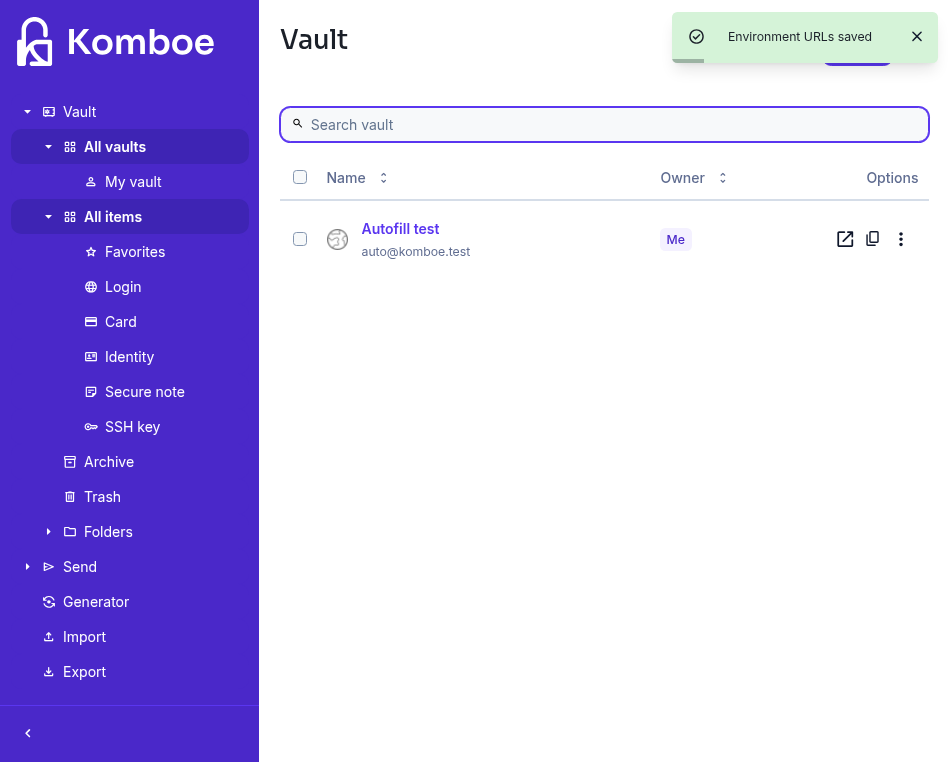
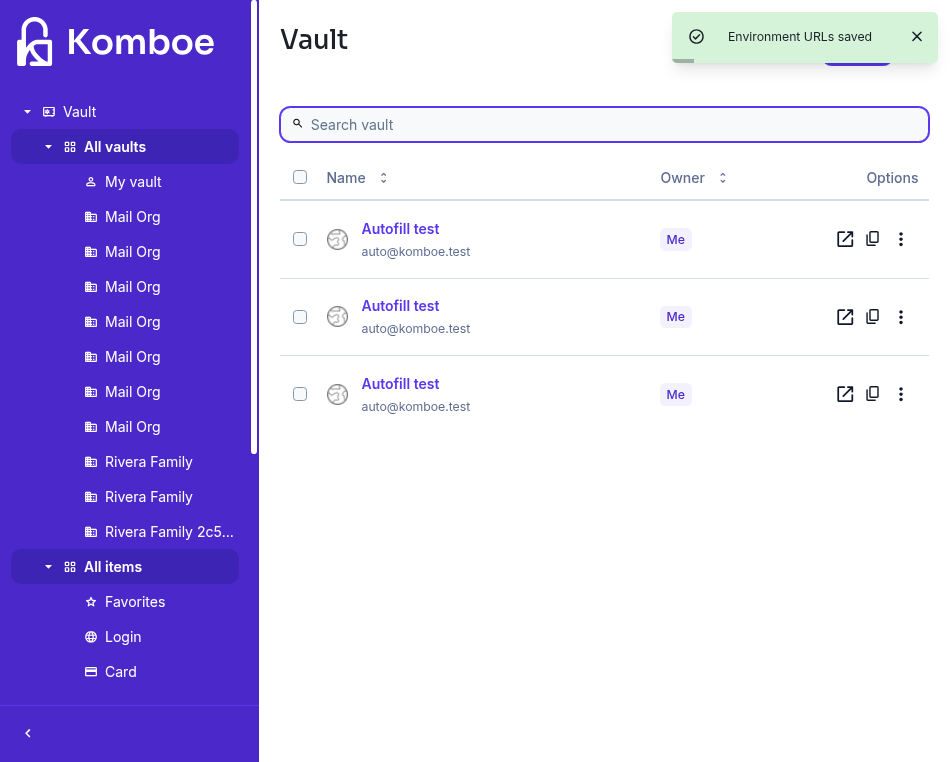
Serve web vault (#80), admin sign-in across web/extension/desktop, emergency + incomplete-2FA job emails, email link browser check

diff --git a/tests/features/emails.py b/tests/features/emails.py
@@ -18,8 +18,8 @@ assert "127.0.0.1" in URL or "localhost" in URL, "emails.py is local/test only"
 BAD = re.compile(r"bitwarden|vaultwarden", re.I)
 RES = []
 
-def check(kind, to, subj, extra=None):
-    m = mailpit(to, subj)
+def check(kind, to, subj, extra=None, wait=None):
+    m = mailpit(to, subj, wait) if wait else mailpit(to, subj)
     body = (m.get("HTML") or "") + "\n" + (m.get("Text") or "")
     probs = []
     if (m["From"].get("Name") or "") != "Komboe": probs.append(f"From name {m['From'].get('Name')!r}")
@@ -29,7 +29,7 @@ def check(kind, to, subj, extra=None):
     if "Komboe" not in body + m["Subject"]: probs.append("no Komboe branding")
     links = set(_html.unescape(u) for u in re.findall(r'href="([^"]+)"', m.get("HTML") or "")) | set(re.findall(r"https?://[^\s<>\"')]+", m.get("Text") or ""))
     for u in links:
-        if not (u.startswith(URL) or re.match(r"https?://(www\.)?komboe\.com", u) or u.startswith("mailto:")): probs.append(f"foreign link {u}")
+        if not (u.startswith(URL) or re.match(r"https?://(localhost|127\.0\.0\.1)(:\d+)?(/|$)", u) or re.match(r"https?://(www\.)?komboe\.com", u) or u.startswith("mailto:")): probs.append(f"foreign link {u}")
     if extra:
         try: extra(m, body)
         except Exception as e: probs.append(f"{type(e).__name__}: {e}"[:200])
@@ -135,6 +135,36 @@ def main():
         e.api("POST", f"/api/emergency-access/{ea['id']}/initiate"); g.api("POST", f"/api/emergency-access/{ea['id']}/approve")
         check("emergency recovery approved", e.email, "Approved")
     step("emergency access", emergency)
+    def dbx(sql, *a):
+        import sqlite3; c = sqlite3.connect(os.environ.get("KOMBOE_DB", "/workspace/run/mt/data/db.sqlite3"), timeout=30); c.execute(sql, a); c.commit(); c.close()
+    def emergency_jobs():
+        # Scheduled jobs: server must run with EMERGENCY_*_SCHEDULE="*/5 * * * * *"; we backdate recovery_initiated_at to trigger them.
+        g, e = User(), User()
+        g.api("POST", "/api/emergency-access/invite", {"email": e.email, "type": 1, "waitTimeDays": 2})
+        ea = g.api("GET", "/api/emergency-access/trusted")["data"][0]
+        check("emergency invite (jobs)", e.email, "Emergency", lambda m, b: e.api("POST", f"/api/emergency-access/{ea['id']}/accept", {"token": tok_from(b)}))
+        pk = g.api("GET", f"/api/users/{e.id}/public-key")["publicKey"]
+        g.api("POST", f"/api/emergency-access/{ea['id']}/confirm", {"key": "4." + b64(load_der_public_key(ub64(pk)).encrypt(g.uk, ns["OAEP"]))})
+        e.api("POST", f"/api/emergency-access/{ea['id']}/initiate")
+        dbx("UPDATE emergency_access SET recovery_initiated_at = datetime('now','-36 hours'), last_notification_at = NULL WHERE uuid = ?", ea["id"])
+        time.sleep(7); check("emergency recovery reminder (job)", g.email, "is pending", wait=45)
+        dbx("UPDATE emergency_access SET recovery_initiated_at = datetime('now','-3 days') WHERE uuid = ?", ea["id"])
+        time.sleep(7); check("emergency recovery timed out (job, to grantor)", g.email, "granted", wait=45)
+        check("emergency recovery approved (job, to grantee)", e.email, "Approved")
+        st = g.api("GET", "/api/emergency-access/trusted")["data"][0]["status"]
+        assert st == 4, f"status {st} != RecoveryApproved (4)"
+    step("emergency jobs", emergency_jobs)
+    def incomplete2fa():
+        # Server must run with INCOMPLETE_2FA_SCHEDULE="*/5 * * * * *"; we backdate the incomplete login past INCOMPLETE_2FA_TIME_LIMIT.
+        u = User()
+        u.api("POST", "/api/two-factor/send-email", {"email": u.email, "masterPasswordHash": u.hash})
+        code = re.search(r"\b(\d{6})\b", mailpit(u.email, "Login Verification Code")["Text"]).group(1)
+        u.api("PUT", "/api/two-factor/email", {"email": u.email, "token": code, "masterPasswordHash": u.hash})
+        try: u.login()
+        except HTTPErr: pass
+        dbx("UPDATE twofactor_incomplete SET login_time = datetime('now','-1 day') WHERE user_uuid = ?", u.id)
+        time.sleep(7); check("incomplete 2FA login (job)", u.email, "Incomplete Two-Step Login", wait=45)
+    step("incomplete 2FA login", incomplete2fa)
     def send():
         u = User(); sk = os.urandom(16)
         from cryptography.hazmat.primitives.kdf.hkdf import HKDF; from cryptography.hazmat.primitives import hashes

diff --git a/tests/playwright/fixtures.py b/tests/playwright/fixtures.py
@@ -3,12 +3,25 @@ import json, os, sys
 sys.argv = [sys.argv[0]]; sys.path.insert(0, os.path.join(os.path.dirname(__file__), "..", "features"))
 import run as R
 ns = R.__dict__
-owner = R.User(); oid, ok = ns["mkorg"](owner, "Rivera Family")
+def admin_user():
+    """KOMBOE_FIXTURE_ADMIN=1: use the local test admin account (creds from the box secrets file, never printed)."""
+    import hashlib
+    env = dict(l.strip().split("=", 1) for l in open(os.environ.get("KOMBOE_ADMIN_ENV", "/home/box/.secrets/komboe-test-admin.env")) if "=" in l)
+    try: return R.User(email=env["KOMBOE_TEST_ADMIN_EMAIL"], pw=env["KOMBOE_TEST_ADMIN_PASSWORD"])
+    except (R.HTTPErr, AssertionError):
+        u = R.User.__new__(R.User); u.email = env["KOMBOE_TEST_ADMIN_EMAIL"]; u.pw = env["KOMBOE_TEST_ADMIN_PASSWORD"]
+        u.it = R.http("POST", "/identity/accounts/prelogin", {"email": u.email})["kdfIterations"]
+        u.mk = hashlib.pbkdf2_hmac("sha256", u.pw.encode(), u.email.encode(), u.it, 32); u.hash = R.b64(hashlib.pbkdf2_hmac("sha256", u.mk, u.pw.encode(), 1, 32))
+        u.login(); from cryptography.hazmat.primitives.serialization import load_der_private_key
+        prof = u.api("GET", "/api/accounts/profile"); u.uk = R.dec(prof["key"], R.stretch(u.mk))
+        u.priv = load_der_private_key(R.dec(prof["privateKey"], u.uk), None); return u
+ADMIN_MODE = os.environ.get("KOMBOE_FIXTURE_ADMIN") == "1"
+owner = admin_user() if ADMIN_MODE else R.User(); ORG = "Rivera Family" + (" " + __import__("uuid").uuid4().hex[:6] if ADMIN_MODE else ""); oid, ok = ns["mkorg"](owner, ORG)
 owner.api("PUT", f"/api/komboe/organizations/{oid}/plan", {"kind": "family", "seats": 6, "pricePerMemberCents": 100})
 kid = R.User(); ns["add_member"](owner, oid, ok, kid)
 for n in ("Kid email", "Game account"): kid.api("POST", "/api/ciphers", kid.cipher({"name": kid.e(n)}))
 kid.api("POST", f"/api/komboe/organizations/{oid}/split-requests", {"note": "Moving out, starting my own family"})
-ext = R.User()
+ext = owner if ADMIN_MODE else R.User()
 ext.api("POST", "/api/ciphers", ext.cipher({"name": ext.e("Autofill test"), "login": {"username": ext.e("auto@komboe.test"),
         "password": ext.e("Autofill-Pass-1"), "uris": [{"uri": ext.e("https://autofill.komboe.test/login"), "match": None}]}}))
 alias_key = owner.api("POST", "/api/komboe/alias/api-key")["apiKey"]
@@ -17,6 +30,6 @@ for nm, pw_, uri in [("Weak reused A", "123456", "http://insecure.komboe.test/lo
                      ("Strong unique", "Tq9!vL2#pR7@xW4$zN", "https://b.komboe.test")]:
     hp.api("POST", "/api/ciphers", hp.cipher({"name": hp.e(nm), "login": {"username": hp.e("health@komboe.test"), "password": hp.e(pw_),
            "uris": [{"uri": hp.e(uri), "match": None}]}}))
-json.dump({"health": {"email": hp.email, "pw": hp.pw}, "owner": {"email": owner.email, "pw": owner.pw}, "kid": {"email": kid.email, "pw": kid.pw}, "ext": {"email": ext.email, "pw": ext.pw}, "orgId": oid, "aliasKey": alias_key},
+json.dump({"health": {"email": hp.email, "pw": hp.pw}, "owner": {"email": owner.email, "pw": owner.pw}, "kid": {"email": kid.email, "pw": kid.pw}, "ext": {"email": ext.email, "pw": ext.pw}, "orgId": oid, "orgName": ORG, "aliasKey": alias_key},
           open(os.path.join(os.path.dirname(__file__), "fixtures.local.json"), "w"))
 print("FIXTURES OK")

diff --git a/docs/STATUS.md b/docs/STATUS.md
@@ -89,7 +89,7 @@ Generated by `tests/features/run.py --write-status docs/STATUS.md` against a loc
 | 77 | Import | Import/export KDBX | partial | KeePass 2 XML import via CLI verified (stored encrypted); native binary .kdbx import/export not implemented (export from KeePass as XML) |
 | 78 | Import | Encrypted export (password-protected JSON) | done | password-protected JSON export: downloaded file is ciphertext and independently decrypts (PBKDF2+AES-256-CBC+HMAC) to the vault items (Playwright) |
 | 79 | Import | Org-level import/export | done | org import + export |
-| 80 | Platform | Web vault | done | Komboe-branded web vault served by the server |
+| 80 | Platform | Web vault | done | Komboe-branded web vault served by the server (verified 2026-10-30: built from clients, served via WEB_VAULT_FOLDER, Playwright 19/19 as admin) |
 | 81 | Platform | Desktop Windows/macOS/Linux | partial | Linux: AppImage + deb, Playwright E2E over CDP passes. Windows x64 built 2026-10-30 on Jonathan via desktop/desktop-build-win.ps1 (portable MSVC 2022, Rust 1.99.1, Node 24.19): native Rust (napi, desktop_proxy, import helper, plugin authenticator) + NSIS `Komboe Setup 2026.10.2.exe` (164 MB) + portable zip (226 MB), unsigned; silent per-user install launches, window title Komboe, padlock-K + Sora wordmark, "Log in to Komboe", Komboe server picker (docs/screenshots/desktop-windows-login.png). Gaps: exe CompanyName still "Bitwarden Inc.", no code signing. macOS not built (needs a Mac) |
 | 82 | Platform | Desktop app Windows only | done | Windows x64 NSIS installer (156 MB) + portable zip (215 MB) with native Rust helpers; installed app launches as 'Komboe' with padlock-K/Sora branding (docs/screenshots/desktop-windows-login.png); unsigned |
 | 83 | Platform | Mobile iOS + Android | partial | Android debug APK io.komboe.android (label 'Komboe', Sora wordmark header + padlock-K splash as VectorDrawables) built from pinned bitwarden/android (fdroid flavor); not run on a device/emulator here; iOS needs macOS |
@@ -119,7 +119,9 @@ Generated by `tests/features/run.py --write-status docs/STATUS.md` against a loc
 
 ## Email notifications (2026-10-30)
 
-`tests/features/emails.py` against a local test server (SMTP -> Mailpit, no production). Every mail is checked for From name "Komboe", Komboe branding, no "Bitwarden"/"Vaultwarden" text, and links that only point to the server DOMAIN or komboe.com; tokens in the mails (registration, org invite, emergency invite, 2FA codes) are used against the API. Result: 30/30 pass. Not covered: emergency-access reminder/timeout (scheduled jobs), incomplete-2FA-login, SSO. Link pages are not opened in a browser because the web vault is not served on this instance.
+`tests/features/emails.py` against a local test server (SMTP -> Mailpit, no production). Every mail is checked for From name "Komboe", Komboe branding, no "Bitwarden"/"Vaultwarden" text, and links that only point to the local test server or komboe.com; tokens in the mails (registration, org invite, emergency invite, 2FA codes) are used against the API. Scheduled jobs are triggered by running the server with `EMERGENCY_NOTIFICATION_REMINDER_SCHEDULE`, `EMERGENCY_REQUEST_TIMEOUT_SCHEDULE` and `INCOMPLETE_2FA_SCHEDULE` set to `*/5 * * * * *`, `JOB_POLL_INTERVAL_MS=1000`, and backdating `recovery_initiated_at` / `twofactor_incomplete.login_time` in the test DB. Result: 35/35 pass. Not covered: SSO (not configured).
+
+Links: `tests/features/email_links.mjs` opens every distinct link from the captured mail in Chromium against the served web vault (finish-signup, verify-email, accept-organization, accept-emergency, recover-delete, verify-recover-delete, vault home): 10 distinct links, 0 bad (each loads with HTTP 200 and a Komboe page, no Bitwarden text).
 
 | Email | Result | Subject |
 |---|---|---|
@@ -138,11 +140,16 @@ Generated by `tests/features/run.py --write-status docs/STATUS.md` against a loc
 | org invite accepted (to admin) | PASS | Invitation to Mail Org accepted |
 | org invite confirmed | PASS | Invitation to Mail Org confirmed |
 | emergency invite | PASS | Emergency access for FT |
-| emergency accepted (to grantor) | PASS | Emergency access contact ft-21195b3512@komboe.test accepted |
+| emergency accepted (to grantor) | PASS | Emergency access contact ft-c79e00376e@komboe.test accepted |
 | emergency confirmed | PASS | Emergency access contact for FT confirmed |
 | emergency recovery initiated | PASS | Emergency access request by FT initiated |
 | emergency recovery rejected | PASS | Emergency access request to FT rejected |
 | emergency recovery approved | PASS | Emergency access request for FT approved |
+| emergency invite (jobs) | PASS | Emergency access for FT |
+| emergency recovery reminder (job) | PASS | Emergency access request by FT is pending |
+| emergency recovery timed out (job, to grantor) | PASS | Emergency access request by FT granted |
+| emergency recovery approved (job, to grantee) | PASS | Emergency access request for FT approved |
+| incomplete 2FA login (job) | PASS | Incomplete Two-Step Login From Ft |
 | Send opened | PASS | Your Komboe Send was opened |
 | billing notice (plan updated) | PASS | Billing notice: Mail Family plan updated |
 | split-off request (to admin) | PASS | Split-off request in Mail Family |
@@ -152,4 +159,10 @@ Generated by `tests/features/run.py --write-status docs/STATUS.md` against a loc
 | split-off completed (to old admins) | PASS | A member left Mail Family |
 | split-off declined | PASS | Your split-off from Mail Family was declined |
 | admin SMTP test | PASS | Komboe SMTP Test |
-| alias forwarding | PASS | alias-fwd-624083 |
+| alias forwarding | PASS | alias-fwd-897062 |
+
+## Web vault, extension and desktop as admin@komboe.com (2026-10-30)
+
+Web vault built on the Windows build machine (`npm run dist:oss:selfhost`, title "Komboe Web vault") and served by the local test server (`WEB_VAULT_ENABLED=true`, `WEB_VAULT_FOLDER`), which fixes #80. `tests/playwright/run.sh` with `KOMBOE_FIXTURE_ADMIN=1` signs in as the local test admin account in all three clients: web vault (login, item CRUD, generators, alias generator, Send, admin console, family console, split-off, the five reports, encrypted export), Chrome extension (load, login, autofill) and the Linux desktop app (launch, login). 19/19 pass.
+
+Windows desktop artifacts replaced in `/workspace/artifacts` (version 2026.10.2, GoDesk/Komboe metadata): setup.exe sha256 `6ad82a19…a47b`, zip sha256 `b9691781…a919`.
